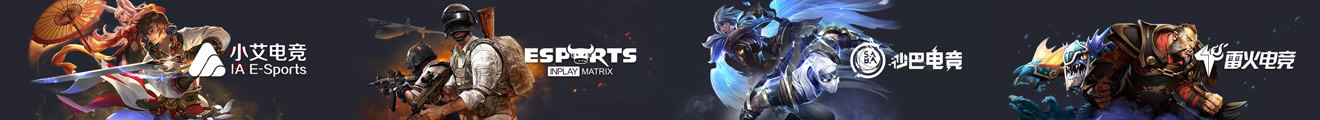
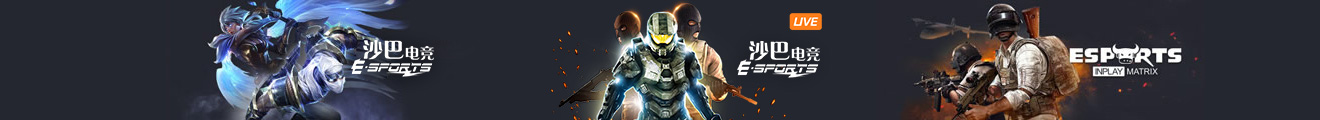
update layout

diff --git a/src/components/Layout/CompHeader.vue b/src/components/Layout/CompHeader.vue
@@ -453,11 +453,7 @@
                   <li class="is-hot">
                     <img
                       class="submenu__hover"
-                      src="../../assets/images/menu/sport/saba3.jpg"
-                      width="330"
-                      height="120"
-                      alt="沙巴体育"
-                    />
+                      src="../../assets/images/menu/sport/sport1.jpg" alt="沙巴体育" />
                     <a href="#" class="providers-title"></a>
                     <nav class="submenu__nav-group">
                       <a href="#" target="_blank" rel="noopener">
@@ -483,11 +479,7 @@
                   <li class="is-hot">
                     <img
                       class="submenu__hover"
-                      src="../../assets/images/menu/sport/ysb2.jpg"
-                      width="330"
-                      height="120"
-                      alt="YSB"
-                    />
+                      src="../../assets/images/menu/sport/sport2.jpg" alt="沙巴体育" />
                     <a href="#" class="providers-title"></a>
                     <nav class="submenu__nav-group">
                       <a href="#" target="_blank" rel="noopener">
@@ -513,11 +505,7 @@
                   <li class="is-hot">
                     <img
                       class="submenu__hover"
-                      src="../../assets/images/menu/sport/xj2.jpg"
-                      width="330"
-                      height="120"
-                      alt="小金"
-                    />
+                      src="../../assets/images/menu/sport/sport3.jpg" alt="沙巴体育" />
                     <a href="#" class="providers-title"></a>
                     <nav class="submenu__nav-group">
                       <a href="#" target="_blank" rel="noopener">
@@ -543,11 +531,7 @@
                   <li>
                     <img
                       class="submenu__hover"
-                      src="../../assets/images/menu/sport/im2.jpg"
-                      width="330"
-                      height="120"
-                      alt="IM"
-                    />
+                      src="../../assets/images/menu/sport/sport4.jpg" alt="沙巴体育" />
                     <a href="#" class="providers-title"></a>
                     <nav class="submenu__nav-group">
                       <a href="#" target="_blank" rel="noopener">
@@ -580,42 +564,20 @@
                   <li>
                     <img
                       class="submenu__hover"
-                      src="../../assets/images/menu/esport/ia.jpg"
-                      width="330"
-                      height="120"
-                      alt="IA ESports"
-                    />
+                      src="../../assets/images/menu/esport/saba1.jpg" alt="ESports" />
                     <a class="providers-title" href="#" target="_blank" rel="noopener"></a>
                   </li>
                   <li>
                     <img
                       class="submenu__hover"
-                      src="../../assets/images/menu/esport/im.jpg"
-                      width="330"
-                      height="120"
-                      alt="IM ESports"
-                    />
+                      src="../../assets/images/menu/esport/saba2.jpg" alt="ESports" />
                     <a class="providers-title" href="#" target="_blank" rel="noopener"></a>
                   </li>
                   <li>
                     <img
                       class="submenu__hover"
-                      src="../../assets/images/menu/esport/sb.jpg?v=2"
-                      width="330"
-                      height="120"
-                      alt="SB ESports"
-                    />
+                      src="../../assets/images/menu/esport/matrix.jpg" alt="ESports" />
                     <a class="providers-title" href="#"></a>
-                  </li>
-                  <li>
-                    <img
-                      class="submenu__hover"
-                      src="../../assets/images/menu/esport/kg2.jpg"
-                      width="330"
-                      height="120"
-                      alt="LH ESports"
-                    />
-                    <a class="providers-title" href="#" target="_blank" rel="noopener"></a>
                   </li>
                 </ul>
               </div>
@@ -627,11 +589,7 @@
                   <li>
                     <img
                       class="submenu__hover"
-                      src="../../assets/images/menu/slot/all-games.jpg"
-                      width="310"
-                      height="120"
-                      alt="电子游戏"
-                    />
+                      src="../../assets/images/menu/slot/all-games.jpg" alt="电子游戏" />
                     <a class="providers-title" href="#"></a>
                   </li>
                   <li class="rng__popular">
@@ -664,81 +622,26 @@
                   <li>
                     <img
                       class="submenu__hover"
-                      src="../../assets/images/menu/fishing/ag.jpg"
-                      width="165"
-                      height="120"
-                      alt="捕鱼王3D"
-                    />
+                      src="../../assets/images/menu/fishing/ag.jpg" alt="捕鱼" />
                     <a class="providers-title" onclick="alert(&quot;请先登入账号&quot;)"></a>
                   </li>
                   <li class="is-new">
                     <img
                       class="submenu__hover"
-                      src="../../assets/images/menu/fishing/ky.jpg"
-                      width="165"
-                      height="120"
-                      alt="红包捕鱼"
-                    />
+                      src="../../assets/images/menu/fishing/saba.jpg" alt="捕鱼" />
                     <a class="providers-title" onclick="alert(&quot;请先登入账号&quot;)"></a>
                   </li>
                   <li class="is-new">
                     <img
                       class="submenu__hover"
-                      src="../../assets/images/menu/fishing/mwg2.jpg"
-                      width="165"
-                      height="120"
-                      alt="捕鱼大满贯"
-                    />
+                      src="../../assets/images/menu/fishing/mega.jpg" alt="捕鱼" />
                     <a class="providers-title" onclick="alert(&quot;请先登入账号&quot;)"></a>
                   </li>
                   <li class="is-new">
                     <img
                       class="submenu__hover"
-                      src="../../assets/images/menu/fishing/pp.jpg"
-                      width="165"
-                      height="120"
-                      alt="王者捕鱼"
-                    />
+                      src="../../assets/images/menu/fishing/techplay.jpg" alt="捕鱼" />
                     <a class="providers-title" onclick="alert(&quot;请先登入账号&quot;)"></a>
-                  </li>
-                  <li>
-                    <img
-                      class="submenu__hover"
-                      src="../../assets/images/menu/fishing/tpg360.jpg"
-                      width="165"
-                      height="120"
-                      alt="多彩捕鱼360"
-                    />
-                    <a class="providers-title" onclick="alert(&quot;请先登入账号&quot;)"></a>
-                  </li>
-                  <li>
-                    <img
-                      class="submenu__hover"
-                      src="../../assets/images/menu/fishing/tpg2.jpg"
-                      width="165"
-                      height="120"
-                      alt="金多多捕鱼360"
-                    />
-                    <a class="providers-title" onclick="alert(&quot;请先登入账号&quot;)"></a>
-                  </li>
-                  <li>
-                    <img
-                      class="submenu__hover"
-                      src="../../assets/images/menu/fishing/mwg.jpg"
-                      width="165"
-                      height="120"
-                      alt="千炮捕鱼"
-                    />
-                    <a class="providers-title" onclick="alert(&quot;请先登入账号&quot;)"></a>
-                  </li>
-                  <li>
-                    <img
-                      class="submenu__hover"
-                      src="../../assets/images/menu/fishing/tpg.jpg"
-                      width="165"
-                      height="120"
-                      alt="TPG捕鱼王"
-                    />
                   </li>
                 </ul>
               </div>

diff --git a/src/assets/css/main.min.css b/src/assets/css/main.min.css
@@ -1284,10 +1284,11 @@ background-color:transparent
 .main-header-menu>li .submenu .esport__submenu {
     width: 1320px;
     background: url("../images/menu/esport/esport-submenu.jpg") 0 0 no-repeat;
-    background-size: 1320px 120px
+    background-size: 1320px 120px;
+    padding: 0 105px;
 }
 .main-header-menu>li .submenu .esport__submenu li {
-    width: 330px
+    width: 370px
 }
 .main-header-menu>li .submenu .sport__submenu {
     width: 1320px;
@@ -1300,10 +1301,11 @@ background-color:transparent
 .main-header-menu>li .submenu .fishing__submenu {
     width: 1320px;
     background: url("../images/menu/fishing/fishing-submenu.jpg") 0 0 no-repeat;
-    background-size: 1320px 120px
+    background-size: 1320px 120px;
+    padding: 0 180px;
 }
 .main-header-menu>li .submenu .fishing__submenu li {
-    width: 165px
+    width: 240px
 }
 .main-header-menu>li .submenu .caipiao__submenu {
     width: 1000px;
